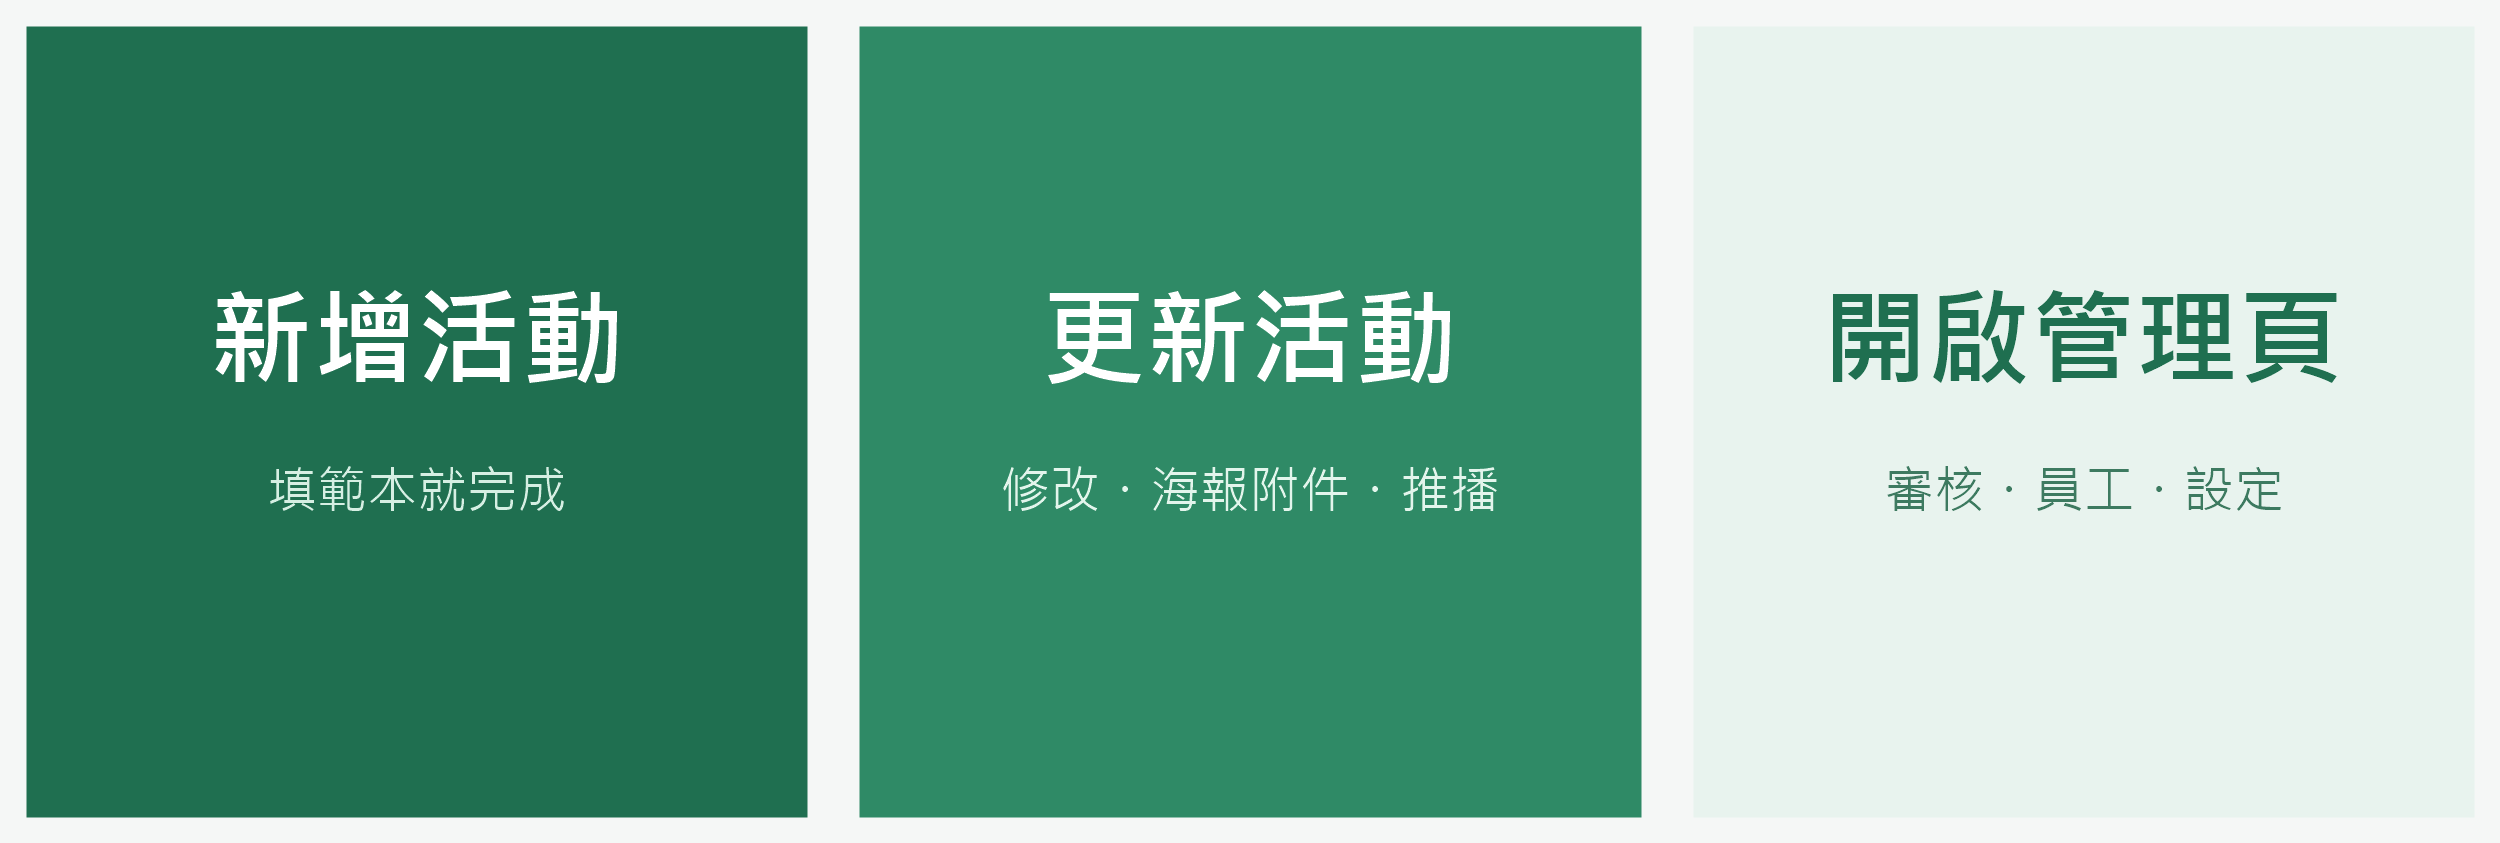
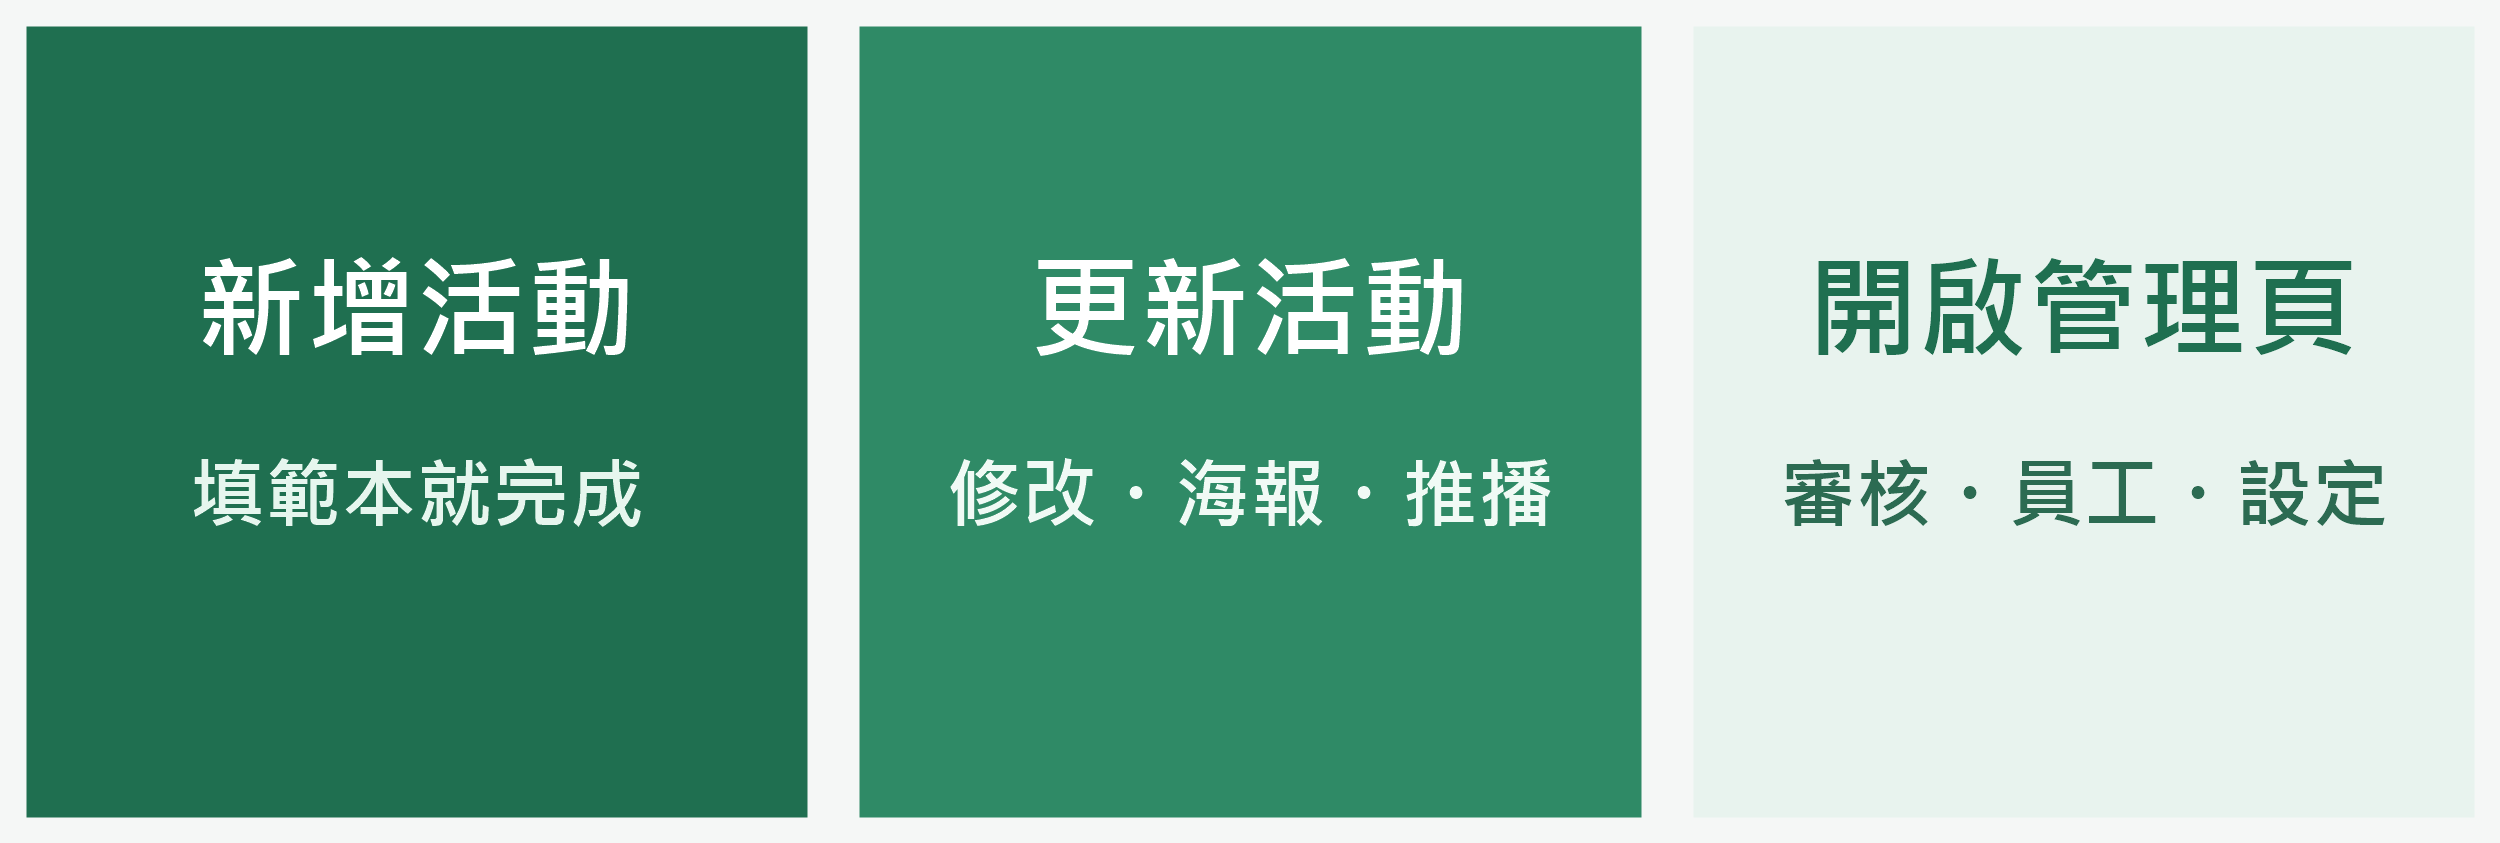
Add files via upload

diff --git a/assets/common.js b/assets/common.js
@@ -160,9 +160,8 @@ var BM = (function () {
   }
 
   // ---- 版本與問題回報 ----
-  var VERSION = '1.8.7';
+  var VERSION = '1.8.8';
   var UPDATED = '2026/11/18';
-  var HIST_NOTE = '2026/10/03 以前的紀錄由舊紀錄表匯入。原紀錄沒有區分上、下午場，半天的場次統一記為「上午場」，不影響次數統計。';
 
   function footer(pageName, whoFn) {
     var f = document.createElement('footer');
@@ -213,7 +212,7 @@ var BM = (function () {
   function recordsHead(rec) {
     return '<p class="small muted" style="margin:8px 4px 0">每次活動結束後隔日更新' + (rec.updatedAt ? '，上次更新：' + esc(rec.updatedAt) : '') +
       (rec.locked ? '　<span class="badge gray">🔒 已結算鎖定</span>' : '') + '</p>' +
-      (rec.year <= '2026' ? '<div class="notice ok">' + HIST_NOTE + '</div>' : '<div style="height:10px"></div>');
+      '<div style="height:10px"></div>';
   }
 
   // ---- 全員參加紀錄表（報名頁的主管/管理員、管理頁共用）----
@@ -254,7 +253,7 @@ var BM = (function () {
   }
 
   return {
-    VERSION: VERSION, UPDATED: UPDATED, HIST_NOTE: HIST_NOTE, footer: footer, cache: cache, cached: cached, clearCache: clearCache, swr: swr,
+    VERSION: VERSION, UPDATED: UPDATED, footer: footer, cache: cache, cached: cached, clearCache: clearCache, swr: swr,
     recordsTable: recordsTable, yearChips: yearChips, yearSelect: yearSelect, recordsHead: recordsHead, realApi: realApi, mock: null,
     store: store, api: api, fmtDate: fmtDate, fmtRange: fmtRange, today: today, esc: esc, sess: sess,
     img: img, fileUrl: fileUrl, linkify: linkify, toast: toast, busy: busy, run: run, modal: modal,
